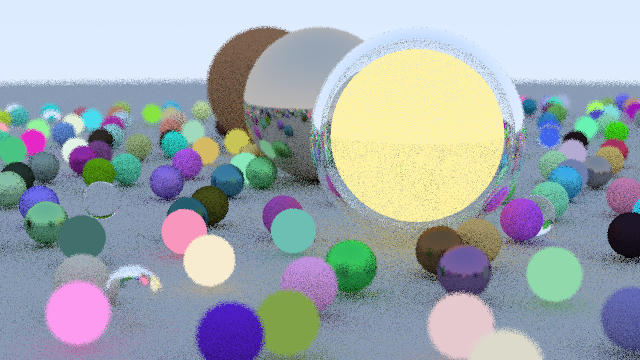
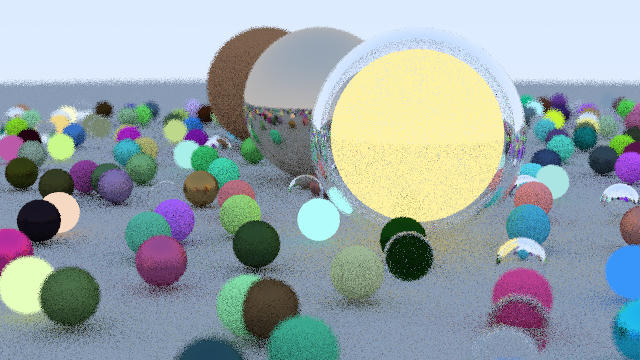
Refactored making the scene

diff --git a/src/main.rs b/src/main.rs
@@ -3,6 +3,7 @@ use std::sync::Arc;
 use rand::random;
 use ray_tracing::Colour;
 use ray_tracing::camera::Camera;
+use ray_tracing::hittable::Hittable;
 use ray_tracing::hittable_list::*;
 use ray_tracing::material::Dielectric;
 use ray_tracing::material::Lambertian;
@@ -26,6 +27,8 @@ fn main() {
     );
 
     let mut world = HittableList::new();
+
+    // Creating the small balls in the render
     for i in -10..=10 {
         for j in -10..=10 {
             let centre = Point::new(
@@ -42,90 +45,109 @@ fn main() {
             }
 
             let material = match random() {
-                0.0..0.33 => Arc::new(Box::new(Lambertian::new(Colour::new(
+                0.0..0.33 => make_material_shareable(Lambertian::new(Colour::new(
                     random(),
                     random(),
                     random(),
-                ))) as Box<dyn Material + Send + Sync>),
-                0.33..0.66 => Arc::new(Box::new(Metal::new(
+                ))),
+                0.33..0.66 => make_material_shareable(Metal::new(
                     random::<f64>() * Colour::new(random(), random(), random()),
                     random::<f64>(),
-                )) as Box<dyn Material + Send + Sync>),
-                0.66..0.90 => Arc::new(Box::new(Light::new(Colour::new(
-                    random(),
-                    random(),
-                    random(),
-                ))) as Box<dyn Material + Send + Sync>),
-                _ => Arc::new(Box::new(Dielectric::new(random::<f64>() / 2.0 + 0.75))
-                    as Box<dyn Material + Send + Sync>),
+                )),
+                0.66..0.90 => {
+                    make_material_shareable(Light::new(Colour::new(random(), random(), random())))
+                }
+                _ => make_material_shareable(Dielectric::new(random::<f64>() / 2.0 + 0.75)),
             };
 
-            world.add(Arc::new(Box::new(Sphere::new(
-                centre,
+            world.add(create_world_object(
+                centre.x,
+                centre.y,
+                centre.z,
                 0.2,
                 material.clone(),
-            ))));
+            ));
         }
     }
 
-    let material_ground = Arc::new(Box::new(Lambertian::new(0.5 * Colour::new(1.0, 1.0, 1.0)))
-        as Box<dyn Material + Send + Sync>);
-    let material_left =
-        Arc::new(Box::new(Lambertian::new(Colour::new(0.4, 0.2, 0.1)))
-            as Box<dyn Material + Send + Sync>);
-    // let material_light = Arc::new(
-    //     Box::new(Light::new(Colour::new(1.0, 1.0, 1.0))) as Box<dyn Material + Send + Sync>
-    // );
-    let material_glass =
-        Arc::new(Box::new(Dielectric::new(1.5)) as Box<dyn Material + Send + Sync>);
-    let material_bubble =
-        Arc::new(Box::new(Dielectric::new(1.0 / 1.5)) as Box<dyn Material + Send + Sync>);
-    let material_right = Arc::new(
-        Box::new(Light::new(Colour::new(1.0, 0.9, 0.4))) as Box<dyn Material + Send + Sync>
-    );
-    let material_centre =
-        Arc::new(Box::new(Metal::new(Colour::new(0.7, 0.6, 0.5), 0.0))
-            as Box<dyn Material + Send + Sync>);
+    let material_ground =
+        make_material_shareable(Lambertian::new(0.5 * Colour::new(1.0, 1.0, 1.0)));
+    let material_left = make_material_shareable(Lambertian::new(Colour::new(0.4, 0.2, 0.1)));
+    let material_glass = make_material_shareable(Dielectric::new(1.5));
+    let material_bubble = make_material_shareable(Dielectric::new(1.0 / 1.5));
+    let material_right = make_material_shareable(Light::new(Colour::new(1.0, 0.9, 0.4)));
+    let material_centre = make_material_shareable(Metal::new(Colour::new(0.7, 0.6, 0.5), 0.0));
 
-    // Arc::new(Box::new(Metal::new(Colour::new(0.8, 0.6, 0.2), 1.0)) as Box<dyn Material>);
-
-    // World
-    // let mut world = HittableList::new();
-    world.add(Arc::new(Box::new(Sphere::new(
-        Point::new(0.0, -1000.0, 0.0),
+    //  The ground
+    world.add(create_world_object(
+        0.0,
+        -1000.0,
+        0.0,
         999.99,
         material_ground.clone(),
-    ))));
-    world.add(Arc::new(Box::new(Sphere::new(
-        Point::new(-4.0, 1.0, 0.0),
+    ));
+
+    // Leftmost big ball in the render
+    world.add(create_world_object(
+        -4.0,
+        1.0,
+        0.0,
         1.0,
         material_left.clone(),
-    ))));
-    // world.add(Arc::new(Box::new(Sphere::new(
-    //     Point::new(0.0, 1000.0, 500.0),
-    //     500.0,
-    //     material_light.clone(),
-    // ))));
-    world.add(Arc::new(Box::new(Sphere::new(
-        Point::new(0.0, 1.0, 0.0),
+    ));
+
+    // Centre big ball in the render
+    world.add(create_world_object(
+        0.0,
+        1.0,
+        0.0,
         1.0,
         material_centre.clone(),
-    ))));
-    world.add(Arc::new(Box::new(Sphere::new(
-        Point::new(4.0, 1.0, 0.0),
+    ));
+
+    // Rightmost big ball in the render
+    world.add(create_world_object(
+        4.0,
         1.0,
-        material_glass.clone(),
-    ))));
-    world.add(Arc::new(Box::new(Sphere::new(
-        Point::new(4.0, 1.0, 0.0),
+        0.0,
         0.9,
         material_bubble.clone(),
-    ))));
-    world.add(Arc::new(Box::new(Sphere::new(
-        Point::new(4.0, 1.0, 0.0),
+    ));
+    world.add(create_world_object(
+        4.0,
+        1.0,
+        0.0,
+        1.0,
+        material_glass.clone(),
+    ));
+
+    world.add(create_world_object(
+        4.0,
+        1.0,
+        0.0,
         0.8,
         material_right.clone(),
-    ))));
+    ));
 
     camera.render(Arc::new(Box::new(world)), 16);
+}
+
+fn make_material_shareable(
+    material: impl Material + 'static,
+) -> Arc<Box<dyn Material + Send + Sync>> {
+    Arc::new(Box::new(material) as Box<dyn Material + Send + Sync>)
+}
+
+fn create_world_object(
+    x: f64,
+    y: f64,
+    z: f64,
+    radius: f64,
+    material: Arc<Box<dyn Material + Send + Sync>>,
+) -> Arc<Box<dyn Hittable>> {
+    Arc::new(Box::new(Sphere::new(
+        Point::new(x, y, z),
+        radius,
+        material.clone(),
+    )))
 }
